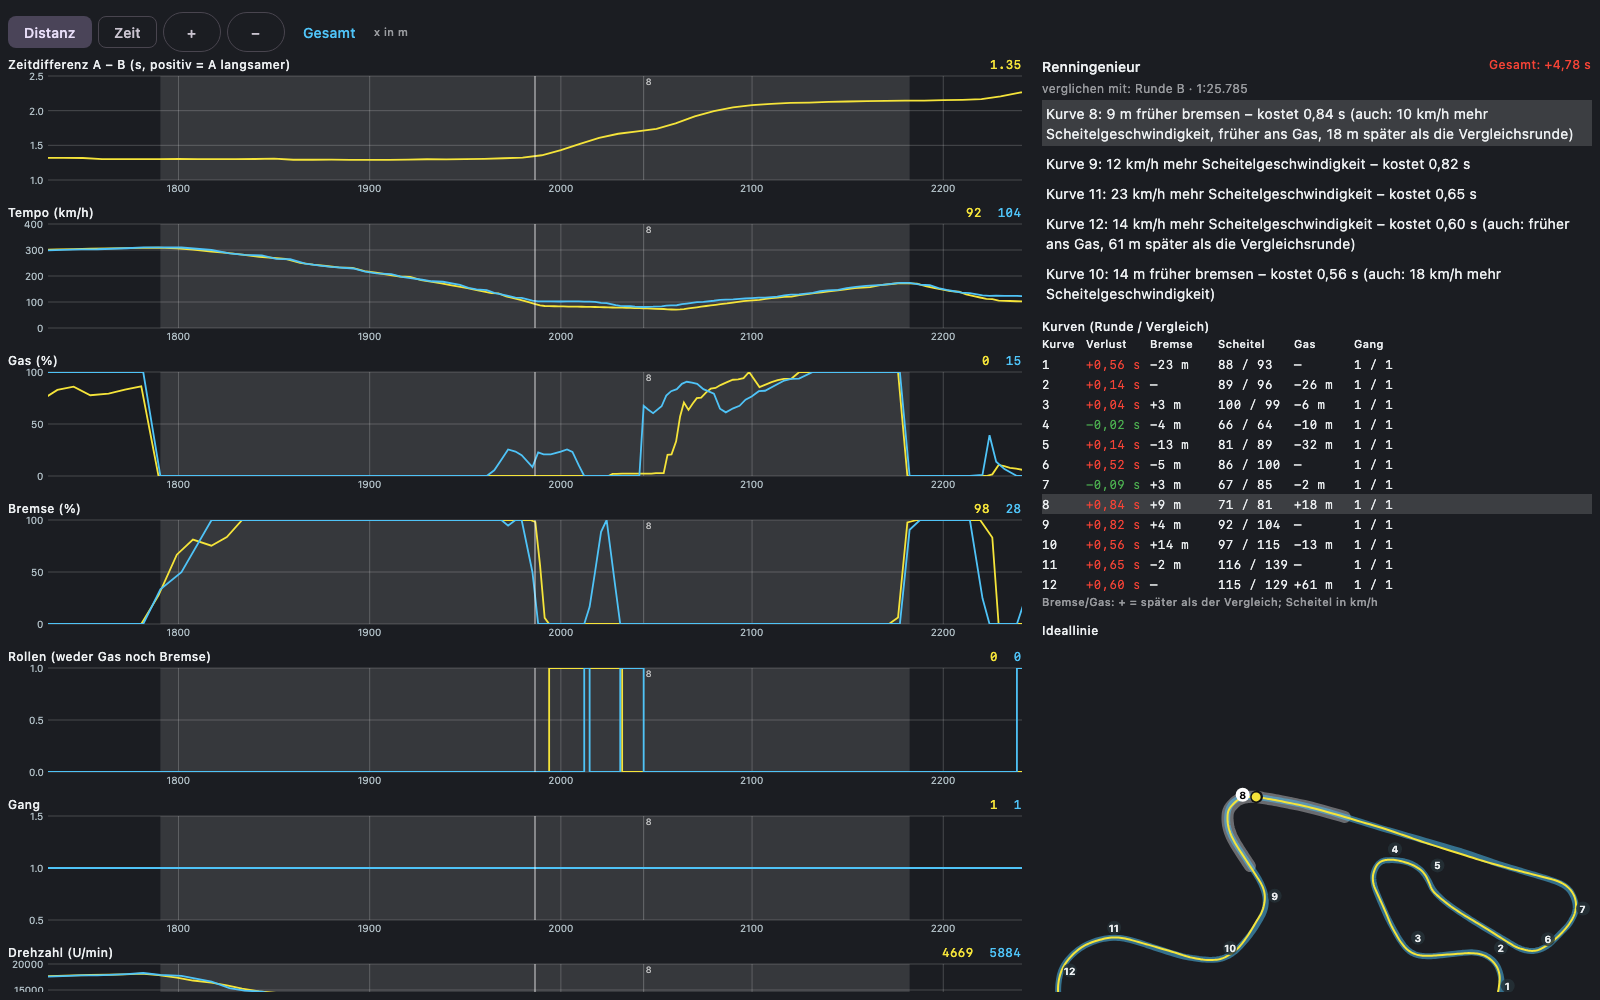
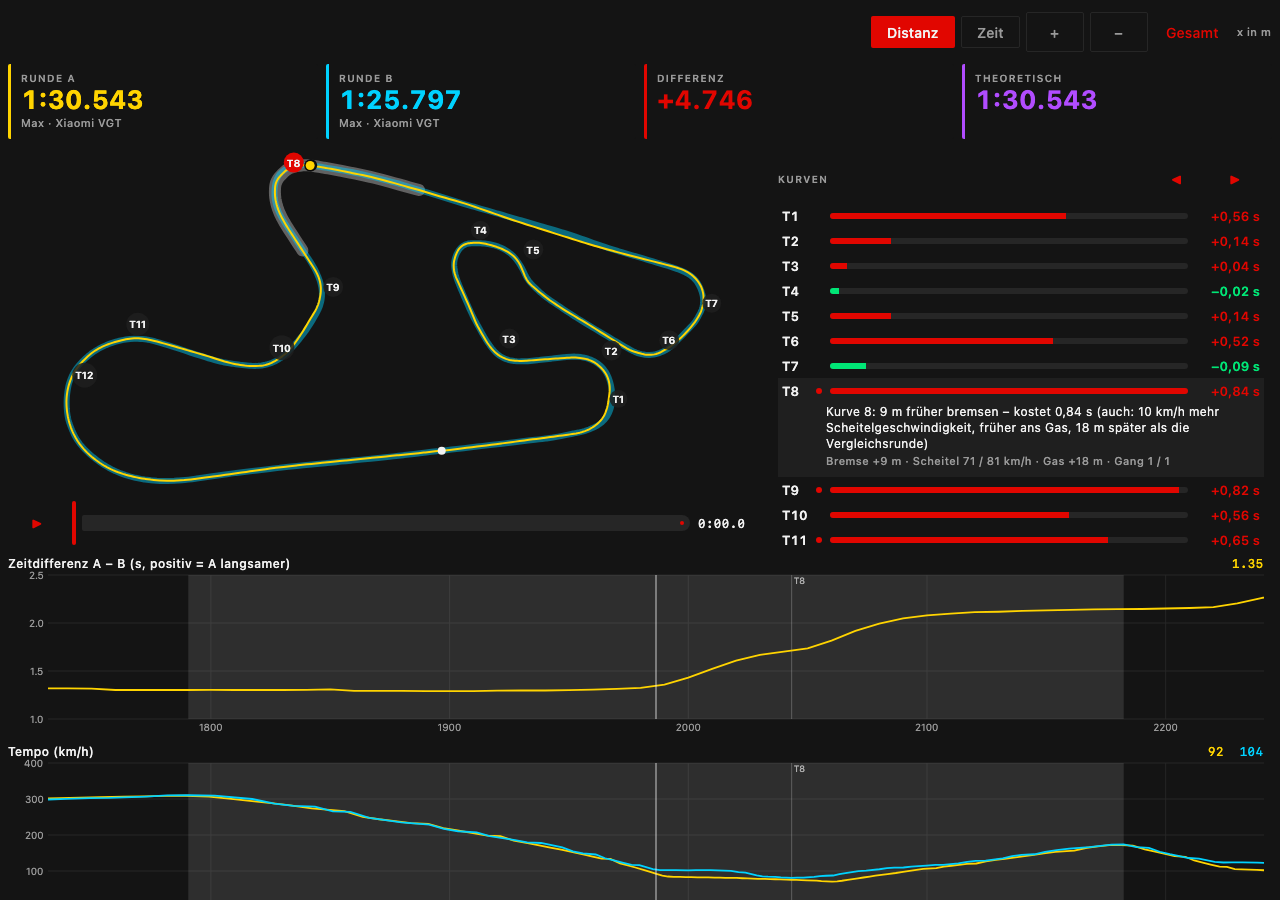
docs: screenshots and README for the analysis cockpit

diff --git a/README.md b/README.md
@@ -14,9 +14,9 @@ Das **Renn-Display** zeigt dasselbe groß und kontrastreich, mit Fahrhilfen, Öl
 
 ![Renn-Display](docs/screenshots/live-race.png)
 
-### Analyse mit Renningenieur
+### Analyse-Cockpit mit Renningenieur
 
-Zwei Runden im Vergleich: der Renningenieur nennt die teuersten Kurven samt Ursache, die Kurventabelle zeigt jede Kurve. Ein gemeinsamer Cursor läuft über alle Diagramme, Zoom und Distanz-/Zeitachse wirken überall zugleich; ein Klick auf eine Kurve zoomt hin und markiert sie auf der Ideallinie. Unter der Karte lässt sich die Runde abspielen.
+Oben die Kernzahlen (Runde A, Runde B oder automatische Vergleichsrunde, Differenz, theoretische Bestzeit). Darunter die Ideallinie mit Wiedergabe und daneben die **Kurvenliste**: jede Kurve mit ihrem Zeitverlust, die drei teuersten rot markiert; die gewählte Kurve klappt auf und erklärt, was sie kostet. Mit ◀ ▶ oder den Pfeiltasten geht es Kurve für Kurve durch die Runde, Karte und Diagramme zoomen mit. Darunter Delta, Tempo und Gas/Bremse mit gemeinsamem Cursor; Gang, Drehzahl, Ladedruck und Rollen sind eingeklappt.
 
 ![Analyse mit Renningenieur](docs/screenshots/analysis.png)
 
